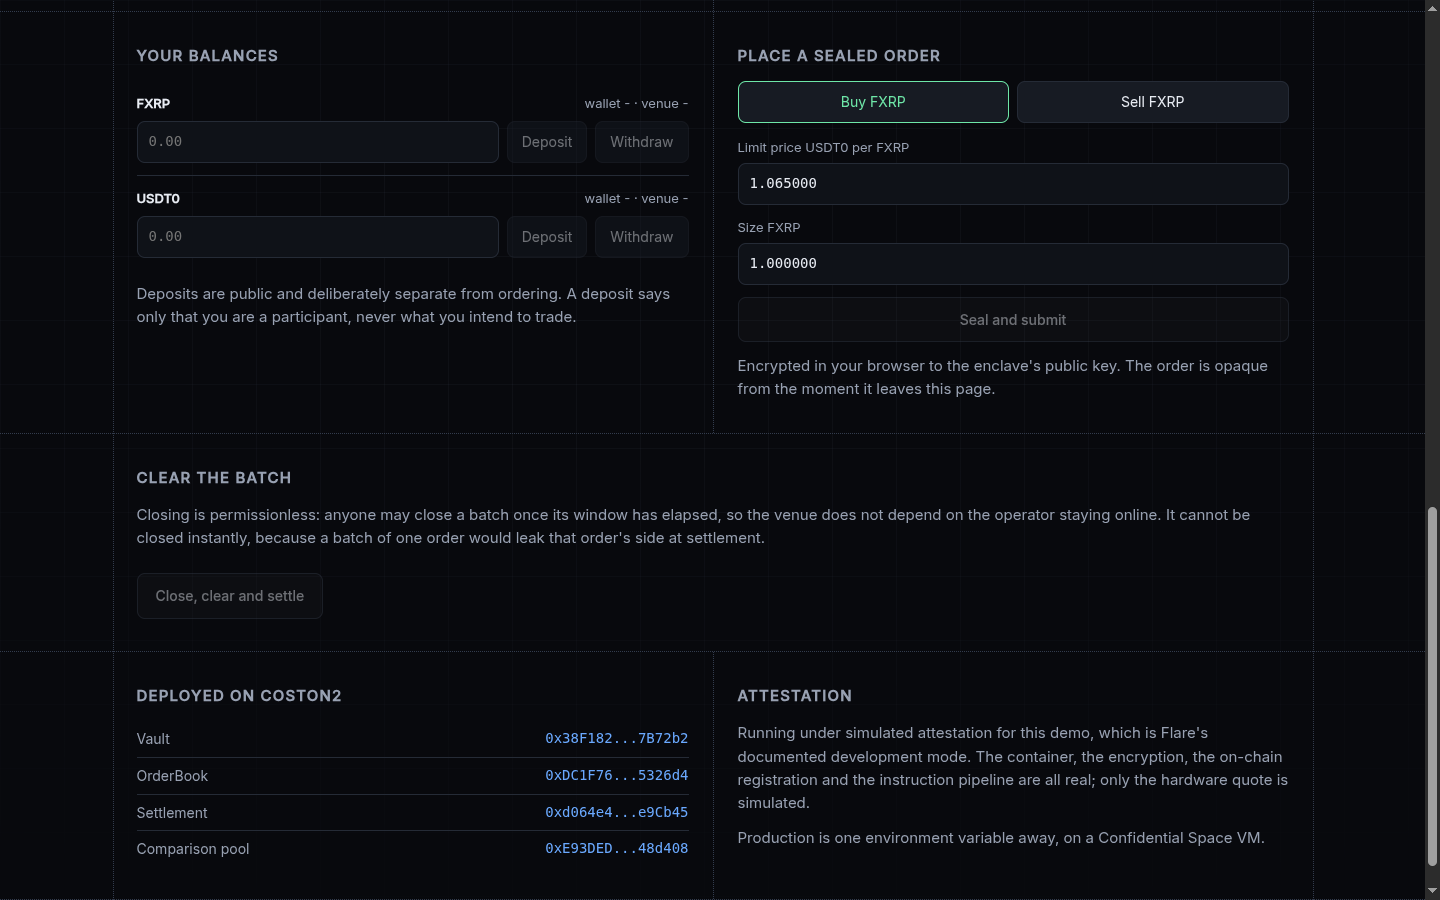
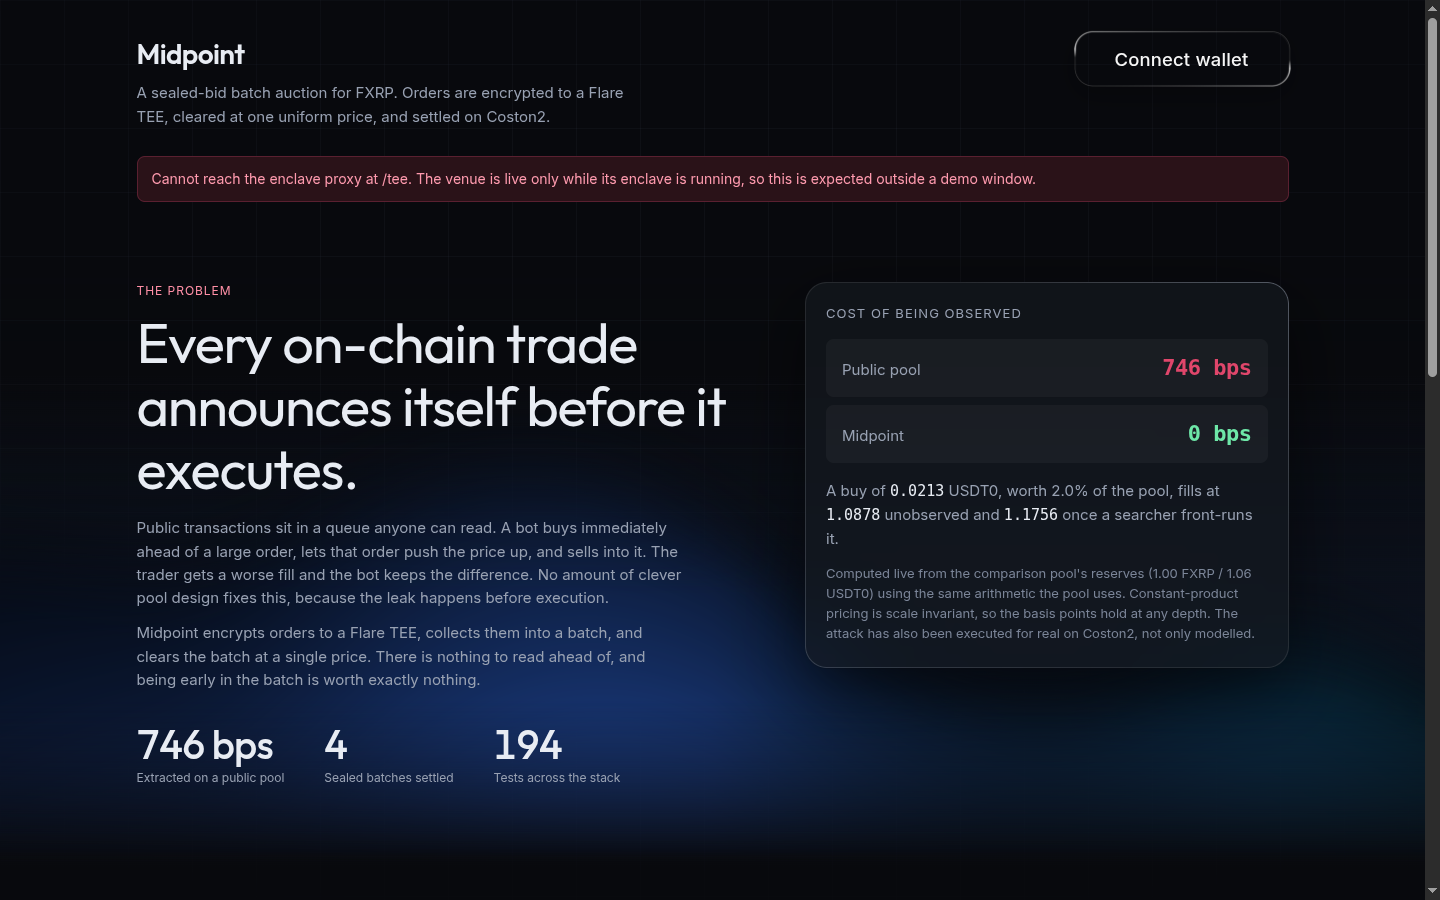
feat: lift the type in the cost-of-being-observed panel
Every small size in the MEV panel goes up a step: the heading 12 to 13, the
row labels and the explanation 13 to 15, the caveat 12 to 13. Padding and
margins move to tokens at the same time rather than staying as loose pixels.

One real fix fell out of it. The caveat was dimmed with `opacity: 0.75` over
--text-muted, which composites against whatever is behind and put its actual
contrast below both text tokens, so the contrast table in design.md was not
true of it. It now uses --text-faint directly and measures 4.77:1 on the
glass. design.md section 2.4 gains a rule against dimming text with opacity,
because the whole point of the token table is that it can be trusted.

diff --git a/web/src/styles.css b/web/src/styles.css
@@ -306,16 +306,16 @@ h2 { margin: 0 0 14px; font-size: 15px; text-transform: uppercase; letter-spacin
   align-self: start;
 }
 .mev-head {
-  font-size: 12px; text-transform: uppercase; letter-spacing: 0.08em;
-  color: var(--muted); margin-bottom: 12px;
+  font-size: var(--text-sm); text-transform: uppercase; letter-spacing: var(--tracking-wide);
+  color: var(--muted); margin-bottom: var(--space-4);
 }
-.mev-loading { color: var(--muted); font-size: 14px; }
+.mev-loading { color: var(--muted); font-size: var(--text-base); }
 
 .mev-rows { display: flex; flex-direction: column; gap: 8px; }
 .mev-row {
   display: flex; justify-content: space-between; align-items: baseline;
-  padding: var(--space-3) var(--space-3); border-radius: var(--radius-sm);
-  background: rgba(255, 255, 255, 0.04); font-size: var(--text-sm);
+  padding: var(--space-3) var(--space-4); border-radius: var(--radius-sm);
+  background: rgba(255, 255, 255, 0.04); font-size: var(--text-base);
 }
 .mev-row span { color: var(--text-muted); }
 .mev-row strong {
@@ -325,9 +325,15 @@ h2 { margin: 0 0 14px; font-size: 15px; text-transform: uppercase; letter-spacin
 .mev-row .bad { color: var(--accent); }
 .mev-row .good { color: var(--private); }
 
-.mev-detail { margin-top: 14px; font-size: 13px; color: var(--muted); }
+.mev-detail { margin-top: var(--space-4); font-size: var(--text-base); color: var(--muted); }
 .mev-detail b { color: var(--text); font-family: var(--font-mono); font-weight: 500; }
-.mev-fine { margin-top: 10px; font-size: 12px; line-height: 1.5; opacity: 0.75; }
+/* The caveat. Subordinate to the figure above it, but it is the honest part
+   and has to stay readable, so it drops one step in size rather than being
+   dimmed as well: `--text-faint` already carries the hierarchy. */
+.mev-fine {
+  margin-top: var(--space-3); font-size: var(--text-sm);
+  line-height: var(--leading-normal); color: var(--text-faint);
+}
 
 
 .note { color: var(--muted); font-size: var(--text-base); margin: var(--space-3) 0 0; }

diff --git a/design.md b/design.md
@@ -99,6 +99,12 @@ normal text. It was lightened rather than kept and excused, because it is used
 at 12px, and 12px is not large text under WCAG no matter how incidental the
 content feels.
 
+**Never dim text with `opacity` to push it down the hierarchy.** It composites
+against whatever is behind and puts the real contrast beyond the reach of these
+tokens, so the table above stops being true. The MEV panel's caveat did exactly
+that, at `opacity: 0.75` over `--text-muted`, which landed below where either
+token sits. Use `--text-faint`, or drop a size, or both.
+
 ---
 
 ## 3. Type
